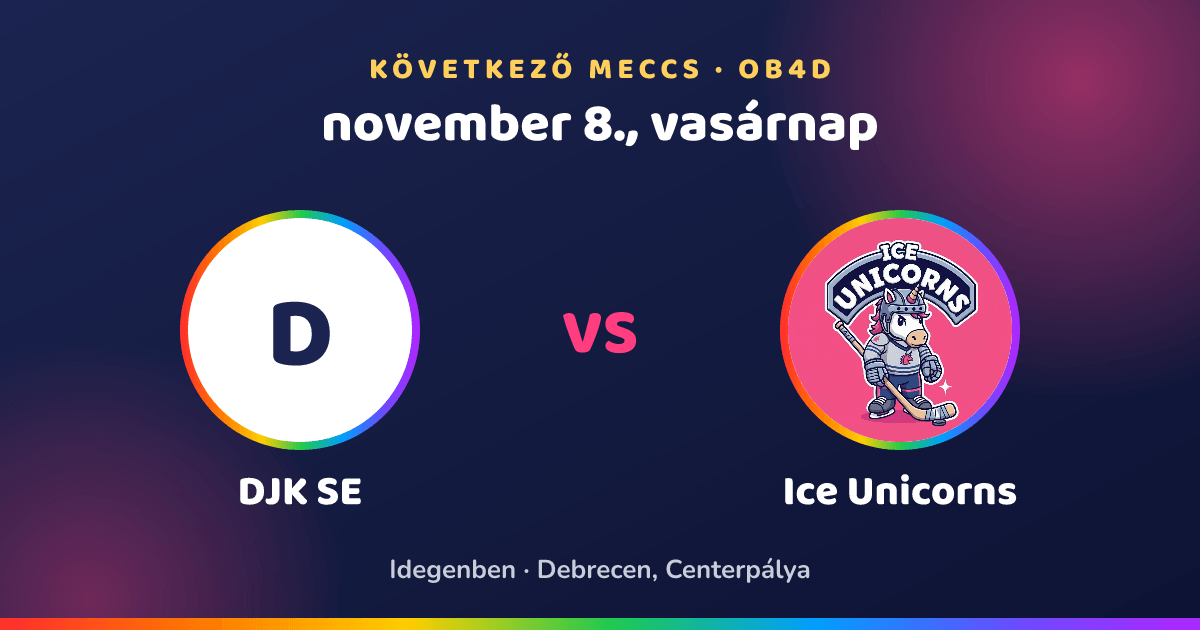
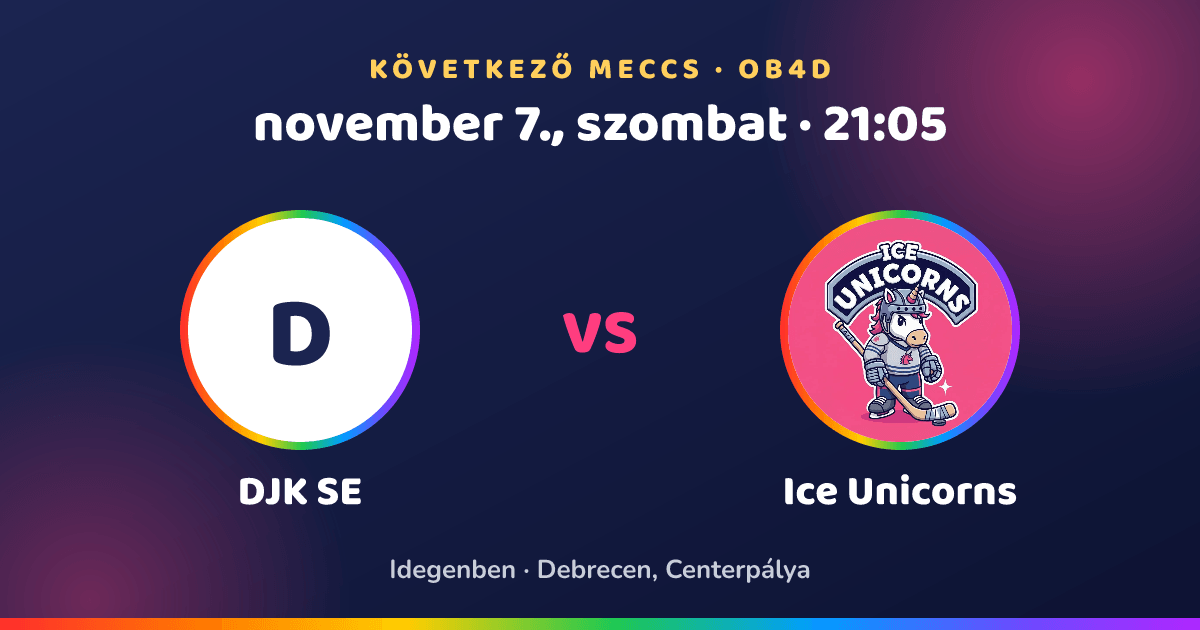
Bajnoksági adatok frissítése (automatikus)

Changed region(s): [[0.2158, 0.1508, 0.8017, 0.2413]]

diff --git a/bajnoksag-adatok.js b/bajnoksag-adatok.js
@@ -6,7 +6,7 @@
 // pedig időzítve lefuttatja, és commitolja, ha változott valami.
 //
 // Szezon: 2026-2027
-// Utolsó frissítés: 2026-10-18T22:53:44.827Z
+// Utolsó frissítés: 2026-10-19T10:36:29.795Z
 //
 // A LEAGUES mezőinek jelentését a bajnoksag.js, a GAME_STATS-ét a
 // statisztika.js tetején lévő leírás mondja el.
@@ -31,7 +31,8 @@ window.LEAGUES = {
       },
       {
         "id": 88942,
-        "date": "2026-11-08",
+        "date": "2026-11-07",
+        "time": "21:05",
         "opponent": "DJK SE",
         "home": false,
         "venue": "Debrecen, Centerpálya",
@@ -527,16 +528,17 @@ window.LEAGUES = {
         "as": 2
       },
       {
+        "date": "2026-11-07",
+        "group": "B",
+        "time": "21:05",
+        "home": "DJK SE",
+        "away": "Ice Unicorns"
+      },
+      {
         "date": "2026-11-08",
         "group": "A",
         "home": "Vénfarkasok",
         "away": "Alba Trashers Jégkorong Klub"
-      },
-      {
-        "date": "2026-11-08",
-        "group": "B",
-        "home": "DJK SE",
-        "away": "Ice Unicorns"
       },
       {
         "date": "2026-11-08",
@@ -1189,14 +1191,6 @@ window.LEAGUES = {
       }
     ],
     "teams": {
-      "Séra Team": {
-        "logo": "https://ivr-api.icehockey.hu/storage/media/155507/conversions/profile_photo-thumb-cropped.png",
-        "group": "B"
-      },
-      "Ice Unicorns": {
-        "logo": "assets/logo/logo.jpg",
-        "group": "B"
-      },
       "Kárpáti Farkasok": {
         "logo": null,
         "group": "A"
@@ -1204,6 +1198,14 @@ window.LEAGUES = {
       "Óbudai Gepárd C": {
         "logo": "https://ivr-api.icehockey.hu/storage/media/84113/conversions/profile_photo-thumb-cropped.png",
         "group": "A"
+      },
+      "Séra Team": {
+        "logo": "https://ivr-api.icehockey.hu/storage/media/155507/conversions/profile_photo-thumb-cropped.png",
+        "group": "B"
+      },
+      "Ice Unicorns": {
+        "logo": "assets/logo/logo.jpg",
+        "group": "B"
       },
       "VIP Crazy Zombies": {
         "logo": "https://ivr-api.icehockey.hu/storage/media/151684/conversions/profile_photo-thumb-cropped.png",
@@ -1249,21 +1251,21 @@ window.LEAGUES = {
     "games": [
       {
         "date": "2026-10-10",
-        "group": "B",
-        "time": "17:00",
-        "home": "Séra Team",
-        "away": "Ice Unicorns",
-        "hs": 2,
-        "as": 4
-      },
-      {
-        "date": "2026-10-10",
         "group": "A",
         "time": "17:00",
         "home": "Kárpáti Farkasok",
         "away": "Óbudai Gepárd C",
         "hs": 3,
         "as": 7
+      },
+      {
+        "date": "2026-10-10",
+        "group": "B",
+        "time": "17:00",
+        "home": "Séra Team",
+        "away": "Ice Unicorns",
+        "hs": 2,
+        "as": 4
       },
       {
         "date": "2026-10-10",
@@ -2573,4 +2575,4 @@ window.GAME_STATS = [
   }
 ];
 
-window.LEAGUES_FRISSITVE = "2026-10-18T22:53:44.827Z";
+window.LEAGUES_FRISSITVE = "2026-10-19T10:36:29.795Z";
